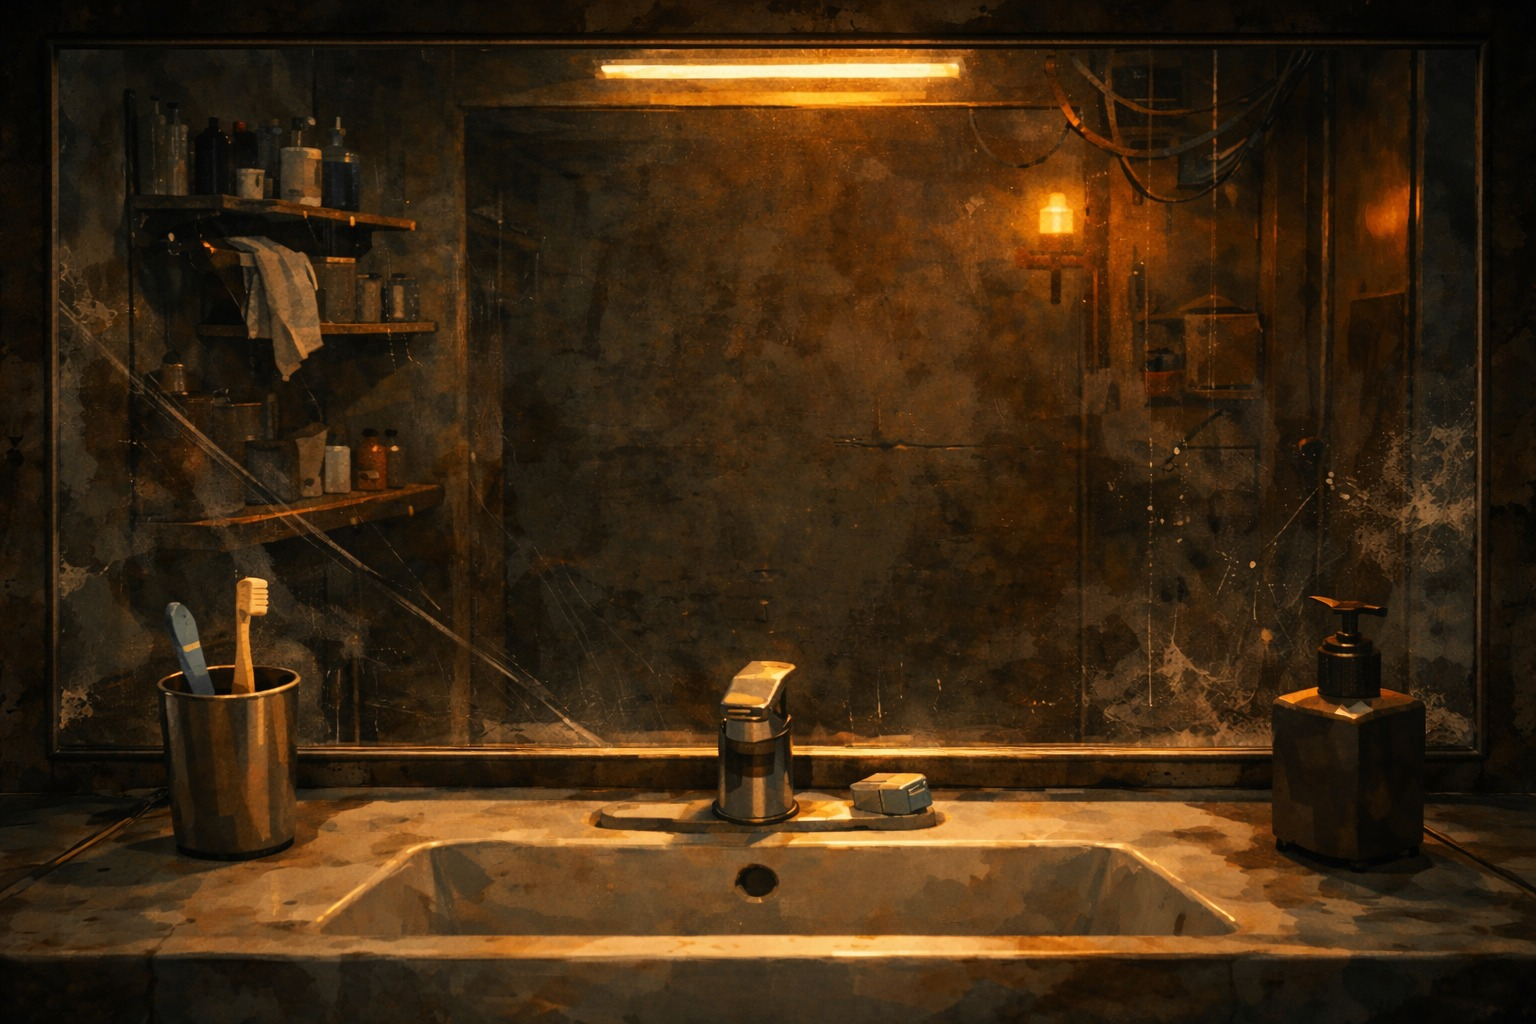
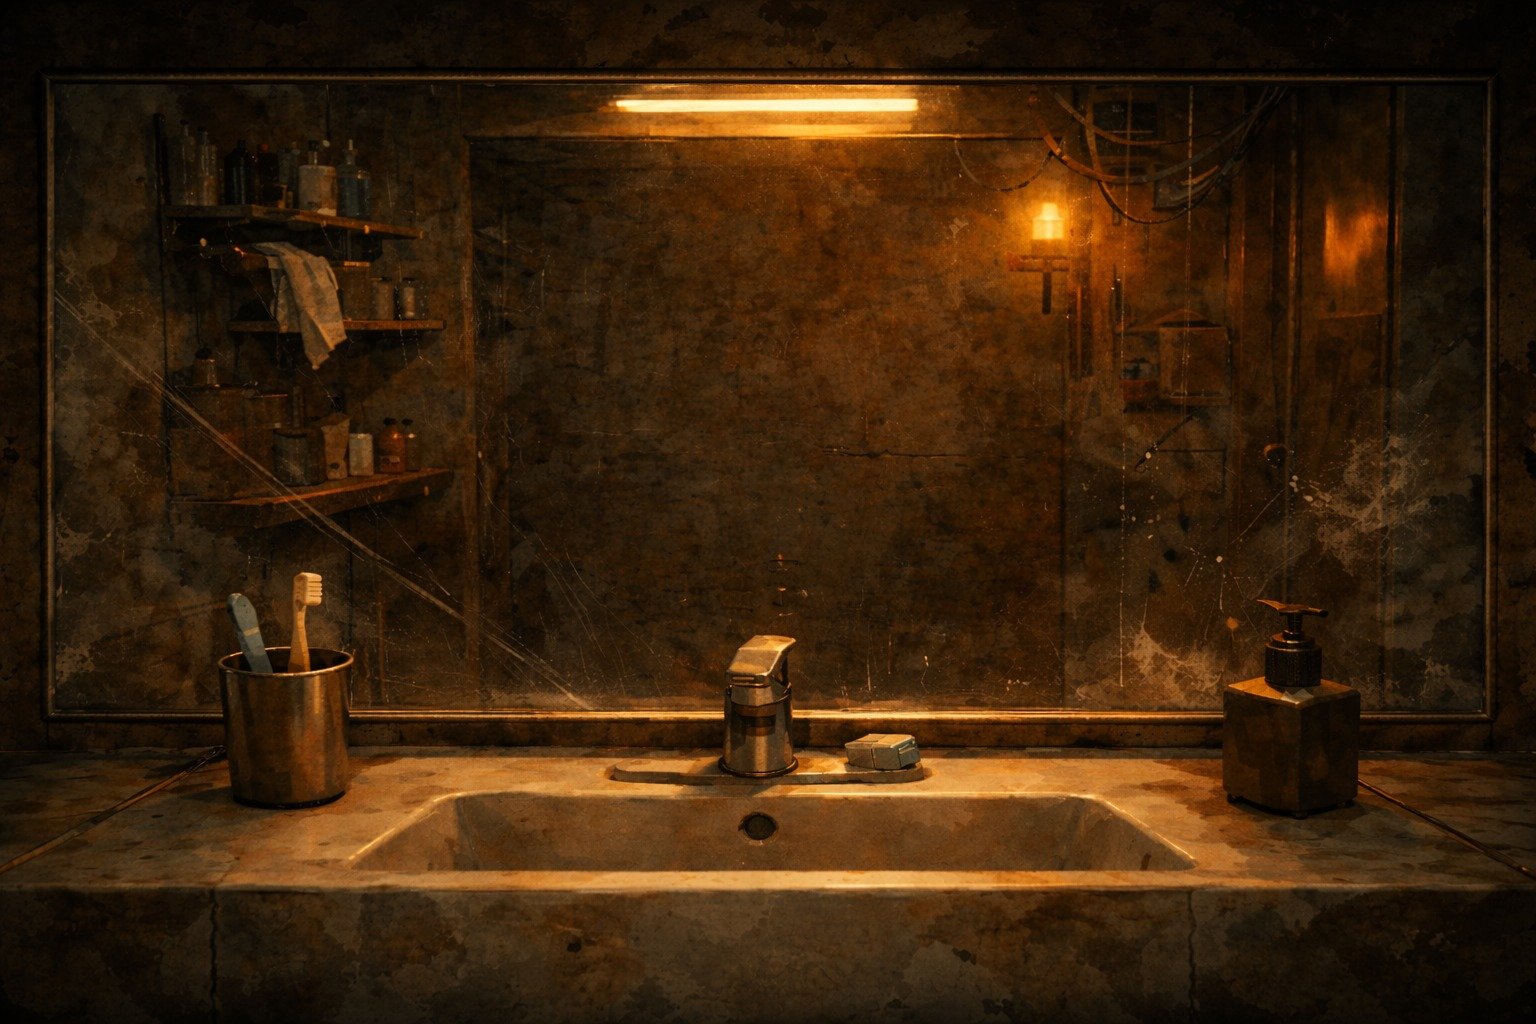
Background
BAckground ajustado de acordo com o tamanho da tela e adicionado animação (img segue o mouse)

diff --git a/script.js b/script.js
@@ -28,3 +28,39 @@ const intervalo = setInterval(() => {
   textoPorcentagem.textContent = progresso + '%';
 
 }, 150);
+
+// ANIMAÇÃO TELA
+
+const fundo = document.querySelector('.background');
+
+let mouseX = 0;
+let mouseY = 0;
+let posX = 0;
+let posY = 0;
+
+const forca = 30; // intensidade do movimento (20–40 ideal)
+
+document.addEventListener('mousemove', (e) => {
+  const x = e.clientX / window.innerWidth - 0.5;
+  const y = e.clientY / window.innerHeight - 0.5;
+
+  mouseX = x * forca;
+  mouseY = y * forca;
+});
+
+function atualizarFundo() {
+  // suavização (efeito câmera)
+  posX += (mouseX - posX) * 0.1;
+  posY += (mouseY - posY) * 0.1;
+
+  fundo.style.transform = `
+    translate(${posX}px, ${posY}px)
+    scale(1.06)
+  `;
+
+  requestAnimationFrame(atualizarFundo);
+}
+
+atualizarFundo();
+
+

diff --git a/style.css b/style.css
@@ -113,23 +113,24 @@ body {
 
 /* FORMATAÇÃO FUNDO */
 
-.cena-fundo{
-  position: relative;
-  width: 100%;
-  height: 100vh;
-  overflow: hidden;
-}
-
-.background{
-  background-image: url(imgs/fundo.jpeg);
-  background-size: cover;
-  background-position: center;
-  background-repeat: no-repeat;
-
-  position: absolute;
+.cena-fundo {
+  position: fixed;
   inset: 0;
+  overflow: hidden;
   z-index: 1;
 }
+
+.background {
+  position: absolute;
+  inset: -60px; /* espaço extra pra mover */
+  background-image: url(imgs/fundo.jpeg);
+  background-size: 80%;
+  background-position: center;
+  background-repeat: no-repeat;
+  will-change: transform;
+}
+
+
 
 
 
